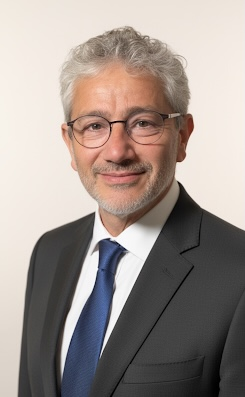
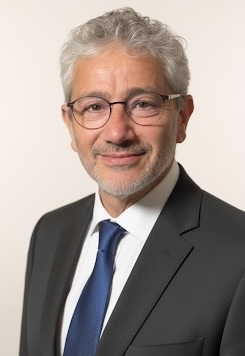
Update

diff --git a/app/page.tsx b/app/page.tsx
@@ -5,7 +5,7 @@ import { Brain, Cog, Users, Award, ExternalLink, Mail, Linkedin } from "lucide-r
 
 export default function HomePage() {
   return (
-    <div className="min-h-screen bg-background">
+    <div className="min-h-screen bg-background" style={{ marginLeft: '1em' }}>
       {/* Header */}
       <header className="sticky top-0 z-50 w-full border-b bg-background/95 backdrop-blur supports-[backdrop-filter]:bg-background/60">
         <div className="container flex h-16 items-center justify-between">
@@ -33,24 +33,21 @@ export default function HomePage() {
       {/* Hero Section */}
       <section className="relative py-20 lg:py-32">
         <div className="container">
-          <div className="grid lg:grid-cols-2 gap-12 items-center">
-            <div className="space-y-8">
+          <div className="grid lg:grid-cols-3 gap-12 items-center">
+            <div className="space-y-8 lg:col-span-2">
               <div className="space-y-4">
                 <Badge variant="secondary" className="w-fit">
-                  SASU Milgram AI Solutions
+                  Milgram AI Solutions
                 </Badge>
                 <h1 className="font-heading text-4xl lg:text-6xl font-bold text-balance">
                   Expert en <span className="text-primary">Automatisation Intelligente</span>
                 </h1>
                 <p className="text-xl text-muted-foreground text-pretty">
-                  Plus de 30 ans d'expérience dans l'IA, le BPM, la RPA et l'automatisation des processus métiers. Je
-                  vous accompagne dans vos défis d'automatisation intelligente.
+                  Plus de 30 ans d'expérience dans l'IA, le BPM, la RPA et l'automatisation des processus métiers. <br />
+                  Je vous accompagne dans vos défis d'automatisation intelligente.
                 </p>
               </div>
               <div className="flex flex-col sm:flex-row gap-4">
-                <Button size="lg" className="w-fit">
-                  Découvrir mes services
-                </Button>
                 <Button variant="outline" size="lg" className="w-fit bg-transparent" asChild>
                   <a href="https://www.linkedin.com/in/milgram/" target="_blank" rel="noopener noreferrer">
                     <Linkedin className="mr-2 h-4 w-4" />
@@ -60,11 +57,11 @@ export default function HomePage() {
               </div>
             </div>
             <div className="relative">
-              <div className="aspect-square rounded-2xl bg-gradient-to-br from-primary/20 to-secondary/20 p-8 flex items-center justify-center">
+              <div className="aspect-[3/4] rounded-2xl bg-gradient-to-br from-primary/20 to-secondary/20 p-8 flex items-start justify-center lg:col-span-1">
                 <img
                   src="/joel.milgram.jpeg"
                   alt="Portrait professionnel"
-                  className="rounded-xl shadow-2xl w-full h-full object-cover"
+                  className="rounded-xl shadow-2xl w-full h-full object-cover object-top"
                 />
               </div>
             </div>
@@ -79,7 +76,7 @@ export default function HomePage() {
             <div className="space-y-4">
               <h2 className="font-heading text-3xl lg:text-4xl font-bold">Mon approche</h2>
               <p className="text-lg text-muted-foreground text-pretty">
-                J'accompagne et conseille mes clients dans leurs défis d'AUTOMATISATION INTELLIGENTE, quel que soit leur
+                J'accompagne et conseille mes clients dans leurs défis d'<b>AUTOMATISATION INTELLIGENTE</b>, quel que soit leur
                 secteur d'activité. Curieux de nature et ouvert aux autres, je suis constamment à l'affût de projets
                 ambitieux et de rencontres enrichissantes.
               </p>
@@ -190,8 +187,7 @@ export default function HomePage() {
                 </CardHeader>
                 <CardContent>
                   <p className="text-muted-foreground">
-                    Recherche et développement en IA appliquée aux systèmes énergétiques et à l'optimisation des
-                    processus industriels.
+                    Recherche et développement en IA appliquée au diagnostic des pannes de capteurs dans les centrales nucléaires. Génération automatique de code et raisonnement à base de modèles.
                   </p>
                 </CardContent>
               </Card>
@@ -202,8 +198,8 @@ export default function HomePage() {
                 </CardHeader>
                 <CardContent>
                   <p className="text-muted-foreground">
-                    Développement, chefferie de projet, avant-vente, marketing et business development. Expérience
-                    internationale en France et à l'étranger, auprès d'utilisateurs finaux et de partenaires.
+                    Développement, chefferie de projet, avant-vente, marketing, business development et expertise. Expérience
+                    internationale auprès de clients et de partenaires.
                   </p>
                 </CardContent>
               </Card>
@@ -225,7 +221,7 @@ export default function HomePage() {
             </div>
             <div className="flex flex-col sm:flex-row gap-4 justify-center">
               <Button size="lg" asChild>
-                <a href="mailto:contact@milgram.fr">
+                <a href="mailto:joel@milgram.fr">
                   <Mail className="mr-2 h-4 w-4" />
                   Me contacter
                 </a>
@@ -260,7 +256,7 @@ export default function HomePage() {
                 <Linkedin className="h-5 w-5" />
               </a>
               <a
-                href="mailto:contact@milgram.fr"
+                href="mailto:joel@milgram.fr"
                 className="text-muted-foreground hover:text-primary transition-colors"
               >
                 <Mail className="h-5 w-5" />
